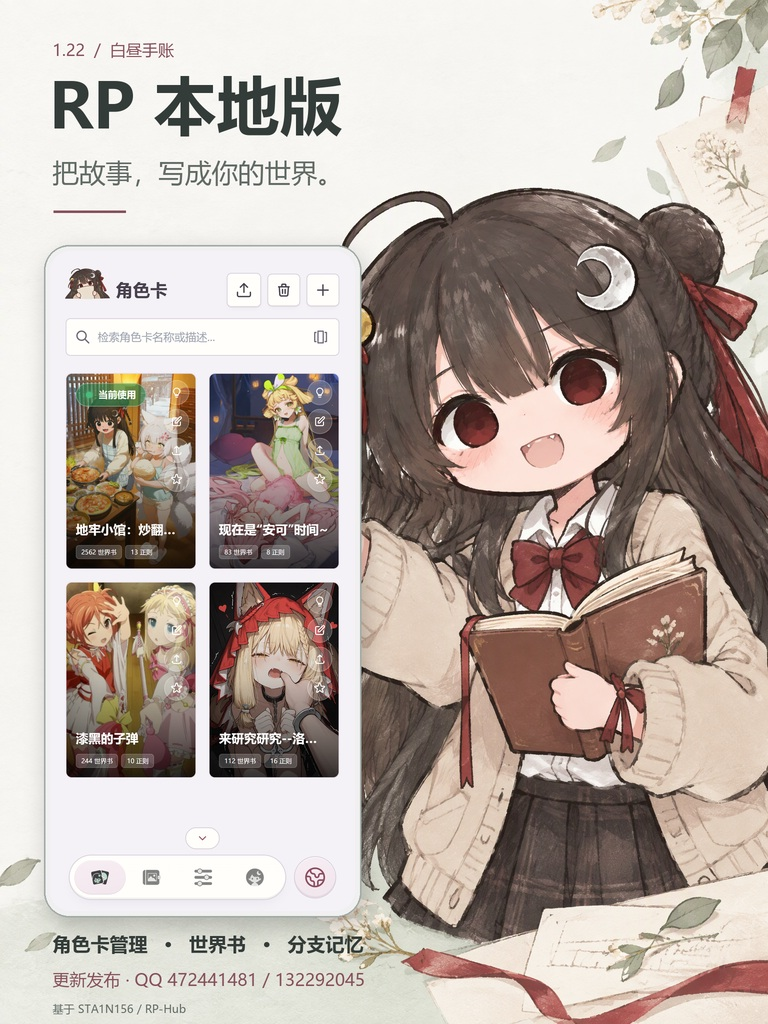
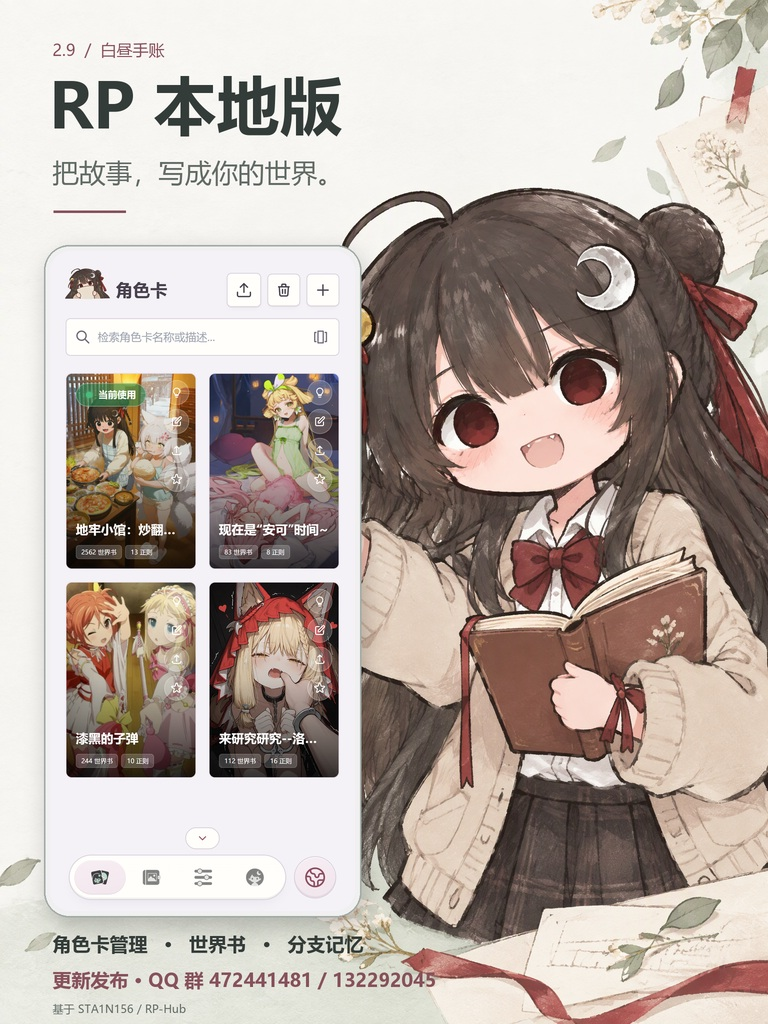
Fix announcement return and reduce startup work in 2.9.001

Changed region(s): [[0.0625, 0.9375, 0.5625, 0.9688], [0.0625, 0.0312, 0.2188, 0.0625]]

diff --git a/web/assets/js/app.js b/web/assets/js/app.js
@@ -407,9 +407,9 @@ const app = createApp({
         const openCompetition = id => {
             const event = window.RPCompetitions.events.find(item => item.id === id);
             if (!event) return;
-            closeAnnouncement();
             selectedCompetition.value = event;
             navigateWorkspace('competition');
+            closeAnnouncement();
         };
         const navigateWorkspace = target => {
             if (streamImportPanel.value?.isApplying) return;
@@ -429,7 +429,9 @@ const app = createApp({
             if (shellRoots.includes(view)) {
                 shellHistory.length = 0;
             } else {
-                shellHistory.push({ view: currentView.value, section: settingsSection.value, scope: resourceScope.value });
+                shellHistory.push({ view: currentView.value, section: settingsSection.value, scope: resourceScope.value,
+                    announcement: showAnnouncement.value,
+                    announcementScroll: document.querySelector('.release-reading')?.scrollTop || 0 });
             }
             shellParent.value = shellHistory.at(-1)?.view || (view === 'chat' ? 'characters' : 'advanced');
             if (['worldinfo', 'regex', 'uitemplates'].includes(view)) resourceScope.value = target.scope || 'character';
@@ -478,6 +480,13 @@ const app = createApp({
             resourceScope.value = previous?.scope || 'character';
             currentView.value = previous?.view || (['settings-detail','cache','backup','usage','patchlist'].includes(currentView.value) ? 'settings' : 'characters');
             shellParent.value = shellHistory.at(-1)?.view || 'characters';
+            if (previous?.announcement) {
+                openAnnouncement();
+                nextTick(() => {
+                    const reading = document.querySelector('.release-reading');
+                    if (reading) reading.scrollTop = previous.announcementScroll;
+                });
+            }
             return true;
         };
         const shellNotice = event => showToast(event.detail.message, event.detail.error ? 'error' : 'success', 5000);

diff --git a/web/index.html b/web/index.html
@@ -3,7 +3,7 @@
 
 <head>
     <meta charset="UTF-8">
-    <script>window.RP_LOCAL_VERSION = '2.9'; window.RP_LOCAL_RELEASE = 264;</script>
+    <script>window.RP_LOCAL_VERSION = '2.9.001'; window.RP_LOCAL_RELEASE = 265;</script>
     <script src="assets/js/theme.js"></script>
     <script src="assets/themes/catalog.js"></script>
     <script src="assets/js/local-files.js"></script>
@@ -426,6 +426,7 @@
     </style>
     <div id="app" v-cloak class="h-full flex flex-col md:flex-row relative"
         :class="{ 'app-native-fullscreen': isChatFullscreen, 'mobile-keyboard-active': isMobileKeyboardOpen }">
+        <template id="rphub-main-template">
         <component is="style" v-if="settings.fontSize">
             .markdown-body :not(h1):not(h2):not(h3):not(h4):not(h5):not(h6):not(small):not(sub):not(sup):not(code):not(.memory-cite) {
             font-size: inherit !important;
@@ -1489,7 +1490,7 @@
                         <h3 class="font-bold text-gray-800">关于与鸣谢</h3>
                         <span class="text-[11px] font-bold text-primary-600 bg-primary-50 border border-primary-100 rounded-full px-2 py-1">本地内置</span>
                     </div>
-                    <p class="text-sm text-gray-600 mb-4">RP 本地版 2.9 · 页面与功能随安装包更新。</p>
+                    <p class="text-sm text-gray-600 mb-4">RP 本地版 2.9.001 · 页面与功能随安装包更新。</p>
                     <button type="button" class="shell-button mb-4" @click="openAnnouncement"><shell-icon name="FileText"></shell-icon>查看更新公告</button>
                     <shell-utilities section="runtime"></shell-utilities>
                     <ol class="space-y-2 text-sm text-gray-600 list-decimal list-inside">
@@ -4432,6 +4433,7 @@
             </div>
         </modal-shell>
 
+        </template>
     </div>
 
     <script>

diff --git a/web/assets/js/main-render.js b/web/assets/js/main-render.js
@@ -3715,7 +3715,7 @@ return function render(_ctx, _cache) {
                   }, "返回", 8 /* PROPS */, _hoisted_229)
                 ]),
                 _createElementVNode("div", _hoisted_230, [
-                  _cache[78] || (_cache[78] = _createStaticVNode("<div class=\"pointer-events-none absolute inset-0 flex items-center justify-center\"><span class=\"select-none whitespace-nowrap text-4xl font-black text-gray-900/10 md:text-6xl\" style=\"transform:rotate(-18deg);\">鸣谢红花铃🔔</span></div><div class=\"flex items-center justify-between gap-3 mb-4\"><h3 class=\"font-bold text-gray-800\">关于与鸣谢</h3><span class=\"text-[11px] font-bold text-primary-600 bg-primary-50 border border-primary-100 rounded-full px-2 py-1\">本地内置</span></div><p class=\"text-sm text-gray-600 mb-4\">RP 本地版 2.9 · 页面与功能随安装包更新。</p>", 3)),
+                  _cache[78] || (_cache[78] = _createStaticVNode("<div class=\"pointer-events-none absolute inset-0 flex items-center justify-center\"><span class=\"select-none whitespace-nowrap text-4xl font-black text-gray-900/10 md:text-6xl\" style=\"transform:rotate(-18deg);\">鸣谢红花铃🔔</span></div><div class=\"flex items-center justify-between gap-3 mb-4\"><h3 class=\"font-bold text-gray-800\">关于与鸣谢</h3><span class=\"text-[11px] font-bold text-primary-600 bg-primary-50 border border-primary-100 rounded-full px-2 py-1\">本地内置</span></div><p class=\"text-sm text-gray-600 mb-4\">RP 本地版 2.9.001 · 页面与功能随安装包更新。</p>", 3)),
                   _createElementVNode("button", {
                     type: "button",
                     class: "shell-button mb-4",

diff --git a/web/assets/js/local-files.js b/web/assets/js/local-files.js
@@ -50,10 +50,10 @@
     };
     const pathOf = async key => {
         const owner = ownerOf(key);
+        const directory = owner ? `角色卡数据/${folderOf(owner)}/` : '个人数据/';
+        if (typeof inventory[key] === 'string' && inventory[key].startsWith(directory)) return inventory[key];
         const name = safeName(key.replace('rp_hub_', '')).slice(0, 48) + '-' + (await hash(key)).slice(0, 16);
-        return owner
-            ? `角色卡数据/${folderOf(owner)}/${name}.json`
-            : `个人数据/${name}.json`;
+        return `${directory}${name}.json`;
     };
     async function saveEntry(key, value) {
         if (!bridge) return;
@@ -73,6 +73,7 @@
         if (!bridge) return;
         const existing = entries.find(entry => entry.key === 'rp_hub_characters');
         if (existing) {
+            const previous = existing.value.map(card => [card.uuid, card.storageFolder, card.importedName]);
             const index = read('个人数据/角色卡索引.json') || [];
             for (const card of existing.value) {
                 const old = index.find(item => item.uuid === card.uuid);
@@ -82,7 +83,10 @@
                 }
             }
             assignFolders(existing.value);
-            await put(existing.key, existing.value);
+            if (existing.value.some((card, i) => card.uuid !== previous[i][0]
+                || card.storageFolder !== previous[i][1] || card.importedName !== previous[i][2])) {
+                await put(existing.key, existing.value);
+            }
         }
         // A full backup import can replace the database directly; remove stale file references.
         if (existing) {

diff --git a/web/assets/js/release-notes.js b/web/assets/js/release-notes.js
@@ -3,6 +3,7 @@
     const marker = 'rp-local-release-shown';
     const sections = [
         { title: '鸣谢与更新', text: '特别鸣谢红花铃🔔老师、启元老师。软件更新将在 QQ 群 472441481、132292045 发布。' },
+        { title: '返回与启动', text: '从公告查看赛事后，返回会继续显示公告，并回到刚才的阅读位置。减少启动时重复处理界面和角色卡的等待。' },
         { title: '灯塔赛事', events: true },
         { title: '经典皮肤与界面切换', text: '默认使用 RP-Hub 2.8.118 的经典布局。打开导航 → 设置 → 外观 → 界面主题，可切换经典、白昼手账或夜蔷薇。原版导航的“外观”入口也可直接进入。切换后保留角色卡、聊天和记忆。' },
         { title: '母版修复与记忆', text: '补丁与记忆功能按 2.8.118 对齐，保留总结、二次总结、向量召回、补录和记忆工具。减少大角色卡导入时的重复保存，避免切换分支或恢复备份时旧内容覆盖新修改。' },

diff --git a/web/assets/js/runtime-services.js b/web/assets/js/runtime-services.js
@@ -690,8 +690,8 @@
 // --- Sidebar watermark (cumulative left-to-right fade in/out) ---
 (function () {
     const STYLE_ID = 'rphub-sidebar-watermark-style';
-    const CHARS = ['鸣', '谢', '红', '花', '铃', '🔔'];
-    const CHAR_MS = 200;   // per-character stagger: 5 chars => ~1s to fully appear
+    const CHARS = Array.from('红花玲🌹🔔 /⚡');
+    const CHAR_MS = 200;   // per-character stagger
     const FADE_MS = 340;   // opacity transition duration per character
     const HOLD_MS = 420;   // fully visible hold
     const EXIT_START_MS = 120;
@@ -746,7 +746,7 @@
         clearTimers(container);
         spans.forEach(span => span.classList.remove('rphub-wm-on', 'rphub-wm-out'));
 
-        // Fade in left -> right: all five become visible by ~1s.
+        // Fade in left -> right.
         spans.forEach((span, i) => {
             later(container, () => {
                 span.classList.remove('rphub-wm-out');

diff --git a/artwork/promo-20261107/compose.py b/artwork/promo-20261107/compose.py
@@ -1,4 +1,5 @@
 import json
+import re
 from pathlib import Path
 
 from PIL import Image, ImageDraw, ImageFilter, ImageFont
@@ -10,6 +11,8 @@ output.mkdir(exist_ok=True)
 size = (1536, 2048)
 regular = "C:/Windows/Fonts/msyh.ttc"
 bold = "C:/Windows/Fonts/msyhbd.ttc"
+version = re.search(r"RP_LOCAL_VERSION = '([^']+)'",
+                    (work.parents[1] / "web/index.html").read_text(encoding="utf-8"))[1]
 
 
 def text(image, position, value, pixels, color, heavy=False):
@@ -52,7 +55,7 @@ posters = [
         "name": "RP本地版-白昼手账",
         "art": "day-generated",
         "screen": "screen-day-home.png",
-        "edition": "1.22  /  白昼手账",
+        "edition": f"{version}  /  白昼手账",
         "tagline": "把故事，写成你的世界。",
         "features": "角色卡管理   ·   世界书   ·   分支记忆",
         "night": False,
@@ -62,7 +65,7 @@ posters = [
         "name": "RP本地版-夜蔷薇",
         "art": "night-generated",
         "screen": "screen-night-gallery.png",
-        "edition": "1.22  /  夜蔷薇",
+        "edition": f"{version}  /  夜蔷薇",
         "tagline": "今夜，也有故事等你。",
         "features": "夜蔷薇主题   ·   角色相簿   ·   倾斜反光",
         "night": True,
@@ -85,7 +88,7 @@ for item in posters:
     ImageDraw.Draw(poster).line((107, 423, 251, 423), fill=accent, width=5)
     phone(poster, work / item["screen"], night)
     text(poster, (105, 1870), item["features"], 38, primary, True)
-    text(poster, (105, 1943), "更新发布 · QQ 472441481 / 132292045", 34, accent)
+    text(poster, (105, 1943), "更新发布 · QQ 群 472441481 / 132292045", 38, accent, True)
     text(poster, (105, 2008), "基于 STA1N156 / RP-Hub", 22, secondary)
     final = poster.convert("RGB")
     final.save(output / (item["name"] + ".png"), optimize=True)
@@ -95,7 +98,7 @@ for item in posters:
     record.append({
         "output": item["name"] + ".png", "size": list(size),
         "illustration": str(illustration.relative_to(work)), "meowaJob": item["job"],
-        "screenshot": item["screen"], "appVersion": "1.22",
+        "screenshot": item["screen"], "appVersion": version,
         "cards": [card["source"] for card in json.loads((work / "cards.json").read_text(encoding="utf-8"))],
         "prompts": ["day-prompt.txt", "night-prompt.txt"],
         "method": "Meowa illustration with unchanged real application screenshot and locally typeset text",

diff --git a/scripts/check-apk.py b/scripts/check-apk.py
@@ -14,7 +14,7 @@ from androguard.core.dex import DEX
 
 root = Path(__file__).resolve().parent.parent
 parser = argparse.ArgumentParser()
-parser.add_argument("--version", default="2.9")
+parser.add_argument("--version", default="2.9.001")
 version = parser.parse_args().version
 file = root / "dist" / f"RP-local-{version}.apk"
 apk = APK(str(file))

diff --git a/README.md b/README.md
@@ -1,8 +1,16 @@
-# RP 本地版 2.9
+# RP 本地版 2.9.001
 
-安装包：[dist/RP-local-2.9.apk](dist/RP-local-2.9.apk)。同一包名和签名，可直接覆盖升级旧本地版，不要先卸载。
+安装包：[dist/RP-local-2.9.001.apk](dist/RP-local-2.9.001.apk)。同一包名和签名，可直接覆盖升级旧本地版，不要先卸载。
 
-当前正式版为 **2.9**。后续小改动依次使用 **2.9.001～2.9.599**，末段固定三位；大改动再调整前两段。Android 内部升级序号独立递增，旧版安装包及验证记录保留原编号。
+当前正式版为 **2.9.001**。小改动按 **2.9.001～2.9.599** 递增，末段固定三位；大改动再调整前两段。Android 内部升级序号独立递增，旧版安装包及验证记录保留原编号。
+
+## 2.9.001 返回公告与启动
+
+- 从公告进入赛事后，返回继续显示公告并恢复阅读位置。关闭或重新打开软件后，同版本不会自动重弹。
+- 启动前的界面模板放在惰性 `template` 内，避免浏览器先处理整套未使用表单，再被已编译的正式界面替换。
+- 本地文件沿用已有路径；角色卡的 UUID、存放目录和原始名称均未变化时，不再重复写入整份角色库。内容核对、文件备份和数据库丢失后的还原继续保留。
+- 两张宣传图均更新到 2.9，使用真实软件页面，并加粗展示 QQ 群 472441481、132292045。
+- 性能数字仅来自桌面浏览器模拟，见 `verification/performance-1.04/startup-classic-baseline.json`、`startup-classic-optimized.json`；不代表安卓真机已经达到秒进。
 
 这是以用户提供的 RP-Hub 2.8.80🔔 为起点、合入 2.8.118 修复的本地版。页面和依赖内置，保留本地版界面与功能。
 

diff --git a/版本编号规则.md b/版本编号规则.md
@@ -2,7 +2,7 @@
 
 用户于 2026-11-07 更新编号规则，本规则取代此前的 1.xx 递增方式。
 
-- 当前正式版为 **2.9**，Android `versionCode: 264`。
+- 当前正式版为 **2.9.001**，Android `versionCode: 265`。
 - 后续小改动依次使用 **2.9.001、2.9.002……2.9.599**，末段固定三位，不写空格。
 - 大改动再调整前两段，例如 **2.10**；不因为普通修复提前调整大版本。
 - 末段达到 599 后不自动进位，下一次编号另行确定。
@@ -12,6 +12,9 @@
 - 已发布安装包和原有验证记录保留原编号，不改写历史。
 
 ## 历史版本
+
+- 正式版 **2.9.001** 对应 Android `versionCode: 265`，修复赛事返回公告及阅读位置，减少启动时处理未使用表单、重复保存角色库和计算文件路径的工作。
+- 正式版 **2.9** 对应 Android `versionCode: 264`，将原 1.23 更新统一为新的版本编号规则。
 
 - 正式版 **1.00** 对应 Android `versionCode: 240`，修复在线页面返回和界面图片下载角标；旧 0.9 安装包保留。
 - 正式版 **1.01** 对应 Android `versionCode: 241`，恢复原有完整记忆系统入口。与独立的“RP 流式实验 1.01”区分。
